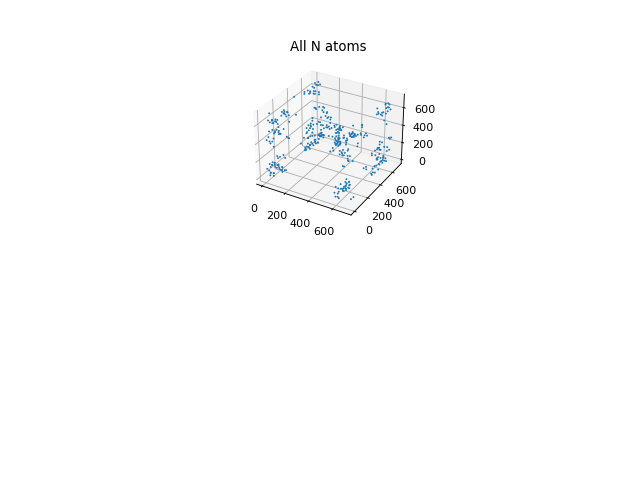
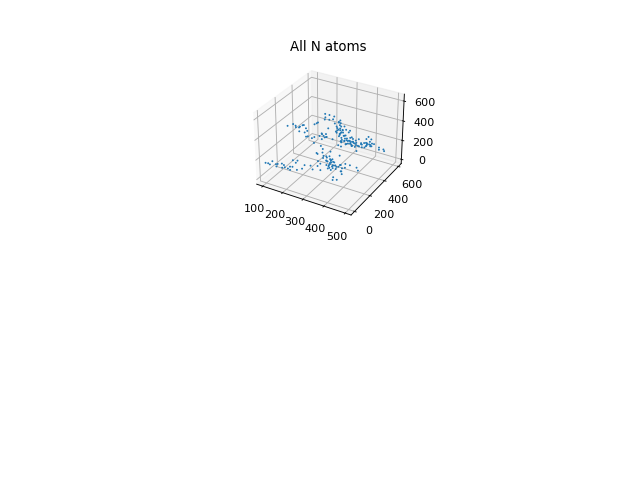
new scripts with ligand naming and ensembl-uniprot dictionary

diff --git a/single_pdb_file_grid.py b/single_pdb_file_grid.py
@@ -35,7 +35,7 @@ parser.add_argument(
     )
 args = parser.parse_args()
 
-def extract_PDB_coordinates_atoms(pdb_file_name=PDB_FILE_NAME, grid_size=700, shift=30):
+def extract_PDB_coordinates_atoms(pdb_file_name=PDB_FILE_NAME, grid_size=500, shift=30):
     """This function extracts 3D coordinates of each atom from the PDB file and
     populates the 4D grid, where grid[0] is the carbon layer, 
 
@@ -54,7 +54,7 @@ def extract_PDB_coordinates_atoms(pdb_file_name=PDB_FILE_NAME, grid_size=700, sh
         
         pdb_lines = pdb_file.readlines()
         protein_grid = np.zeros((4, grid_size, grid_size, grid_size))
-    
+        shift_y, shift_x, shift_z = 0,0,0
         for line in pdb_lines:
             line = line.strip()
             if line[0:4] == 'ATOM' and line[-1] != 'H':
@@ -68,12 +68,14 @@ def extract_PDB_coordinates_atoms(pdb_file_name=PDB_FILE_NAME, grid_size=700, sh
                     numerical_data[2], # z_coordinate
                     numerical_data[4]] # confidence score
                 )
-                shift = min(shift, entry[1], entry[2], entry[3])
+                shift_x = min(shift_x, entry[1])
+                shift_y = min(shift_y, entry[2])
+                shift_z = min(shift_z, entry[3])
                 #log.debug('The following point entry has been added to the grid: ' + str(entry))
                 protein_grid[int(entry[0])] \
-                [int((entry[1] - shift)*1000//100)] \
-                [int((entry[2] - shift)*1000//100)] \
-                [int((entry[3] - shift)*1000//100)] = entry[4]
+                [int((entry[1] - shift_x)*1000//200)] \
+                [int((entry[2] - shift_y)*1000//200)] \
+                [int((entry[3] - shift_z)*1000//200)] = entry[4]
     log.info('Extraction completed! ')
     
     return protein_grid
@@ -121,4 +123,4 @@ with open('pdb_data_files/file_names.txt') as file_names:
 #        visualize_grid(coordinates_data, 'O')
 #        visualize_grid(coordinates_data, 'S')
 #        visualize_grid(coordinates_data, 'N')
-        break
+#        break

diff --git a/olfr_de/create_ensembl_uniprot_dict.py b/olfr_de/create_ensembl_uniprot_dict.py
@@ -1,0 +1,11 @@
+import json
+
+with open('MGIBatchReport_20220531_153700.txt', 'r') as reference_file:
+    reference_lines = reference_file.readlines()
+    dict = {}
+    for line in reference_lines:
+        line_list = line.split()
+        dict[line_list[-2]] = line_list[-1]
+
+with open('mouse_genes_ensembl_uniprot.json', 'w') as dict_file:
+    json.dump(dict, dict_file)    

diff --git a/olfr_de/extract_compound_names.py b/olfr_de/extract_compound_names.py
@@ -1,0 +1,7 @@
+with open('file_names.txt', 'r') as file_names:
+    names = file_names.readlines()
+    with open('compound_names.txt', 'w') as write_file:
+        for name in names:
+            left_index = name.rfind('_')
+            right_index = name.find('.csv')
+            write_file.write(name[left_index + 1 : right_index] + '\n')
